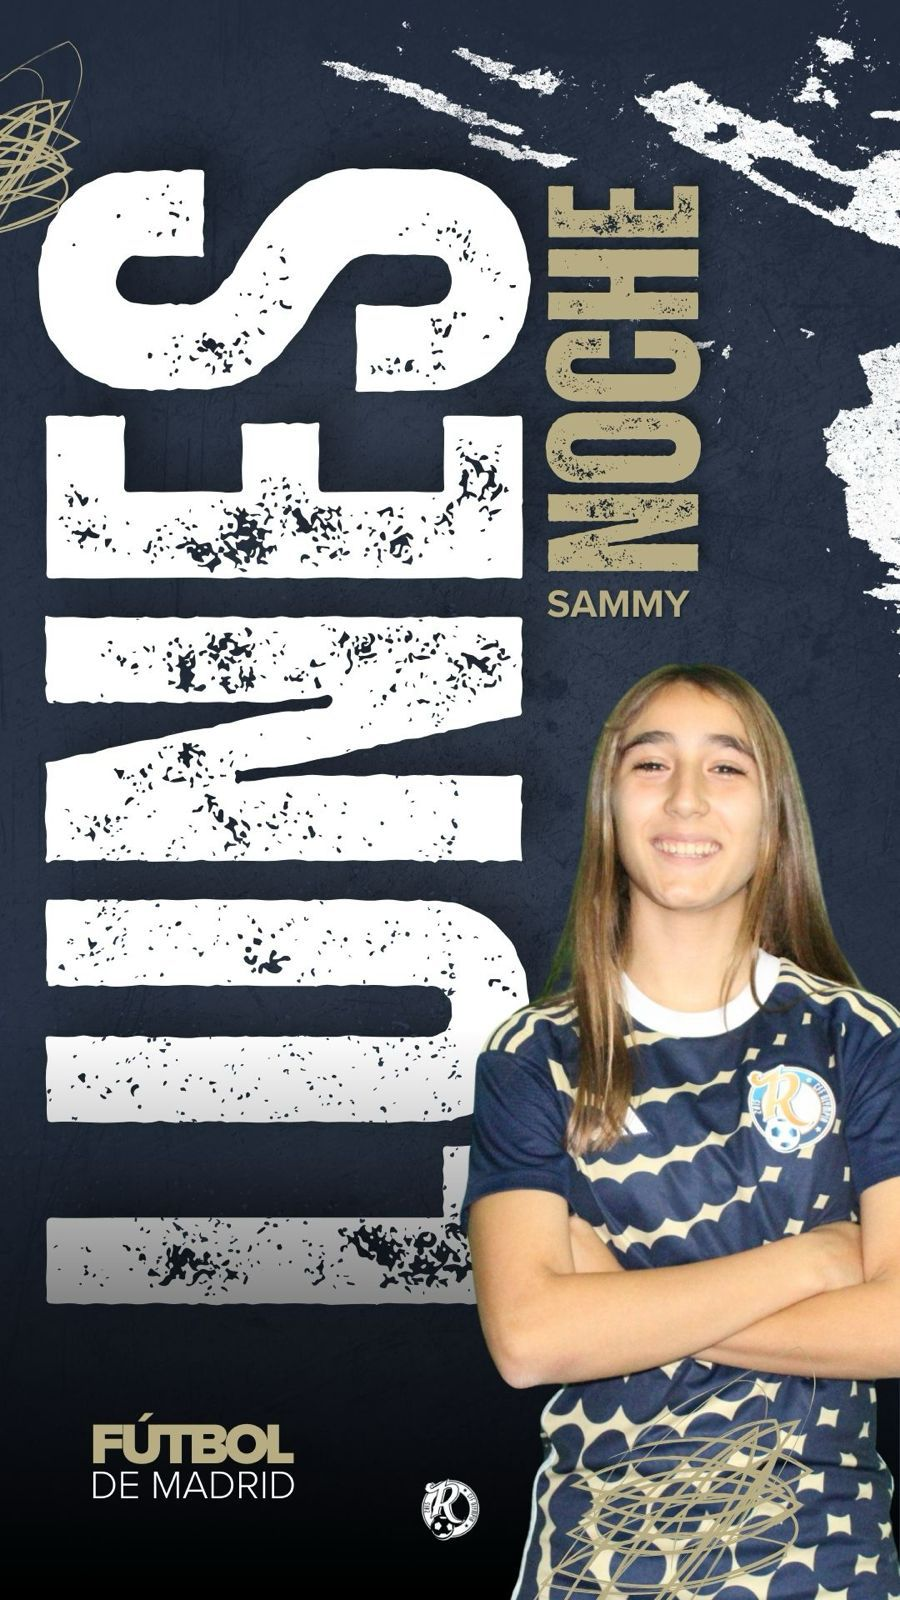
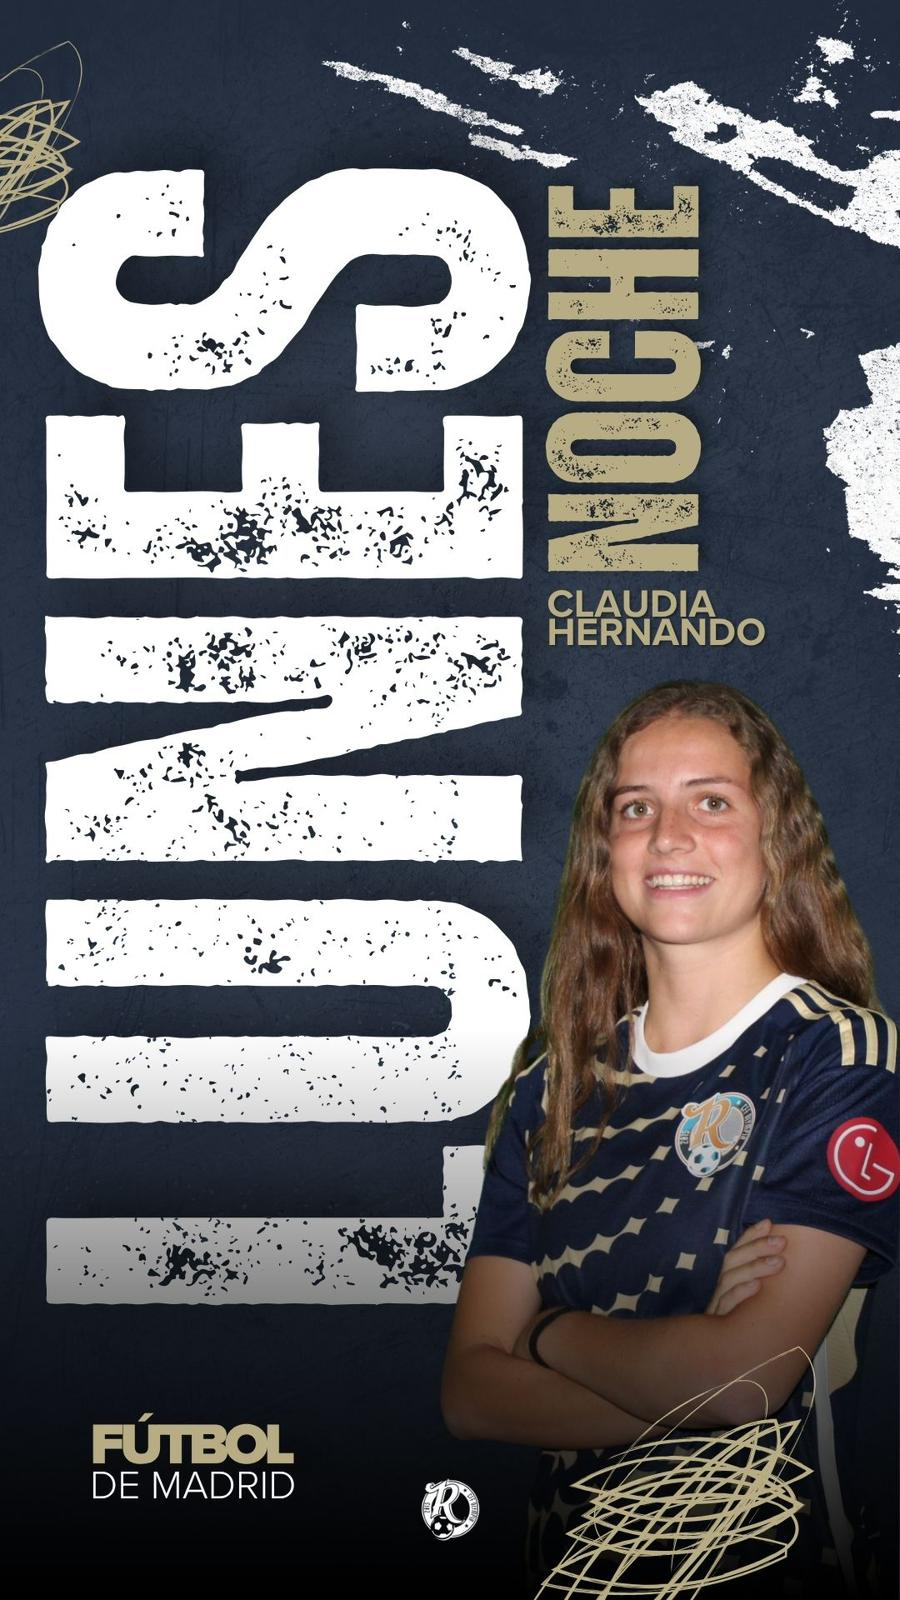
Noticias actualizadas

Changed region(s): [[0.4978, 0.3438, 1.0, 1.0]]

diff --git a/components/sponsormarquee_comp.js b/components/sponsormarquee_comp.js
@@ -203,6 +203,12 @@ sponsorMarqueeTemplate.innerHTML = `
             class="sponsor"
             alt="Aliberico, patrocinador oficial del Olympia" />
         </a>
+         <a href="https://ceodental-lasrozas.com/" class="sponsors__link">
+            <img
+            src="/public/sponsors/logo_ceodental.png"
+            class="sponsor"
+            alt="Ceo Dental, patrocinador oficial del Olympia" />
+        </a>
     </div>
     <div aria-hidden="true" class="sponsors__track">
 
@@ -260,6 +266,12 @@ sponsorMarqueeTemplate.innerHTML = `
             src="/public/sponsors/logo_aliberico.png"
             class="sponsor"
             alt="Aliberico, patrocinador oficial del Olympia" />
+        </a>
+        <a href="https://ceodental-lasrozas.com/" class="sponsors__link">
+            <img
+            src="/public/sponsors/logo_ceodental.png"
+            class="sponsor"
+            alt="Ceo Dental, patrocinador oficial del Olympia" />
         </a>
     </div>
 </div>

diff --git a/index.html b/index.html
@@ -1,5 +1,5 @@
 <!-- ©2023 CFF OLYMPIA, ALL RIGHTS RESERVED -->
-<!DOCTYPE html>
+<!doctype html>
 <html lang="es">
   <head>
     <!-- <script async src="https://www.googletagmanager.com/gtag/js?id=G-GGKZMGWV3S"></script>
@@ -249,17 +249,17 @@
       >
       <div class="animation__container">
         <img
-          src="/public/img/social-index/initial_1.jpg"
+          src="/public/img/social-index/IMG_9305.JPG"
           alt=""
           class="animation__img animation__img--1"
         />
         <img
-          src="/public/img/social-index/initial_2.jpg"
+          src="/public/img/social-index/IMG_9327.JPG"
           alt=""
           class="animation__img animation__img--2"
         />
         <img
-          src="/public/img/social-index/initial_3.jpg"
+          src="/public/img/social-index/IMG_4217.jpg"
           alt=""
           class="animation__img animation__img--3"
         />
